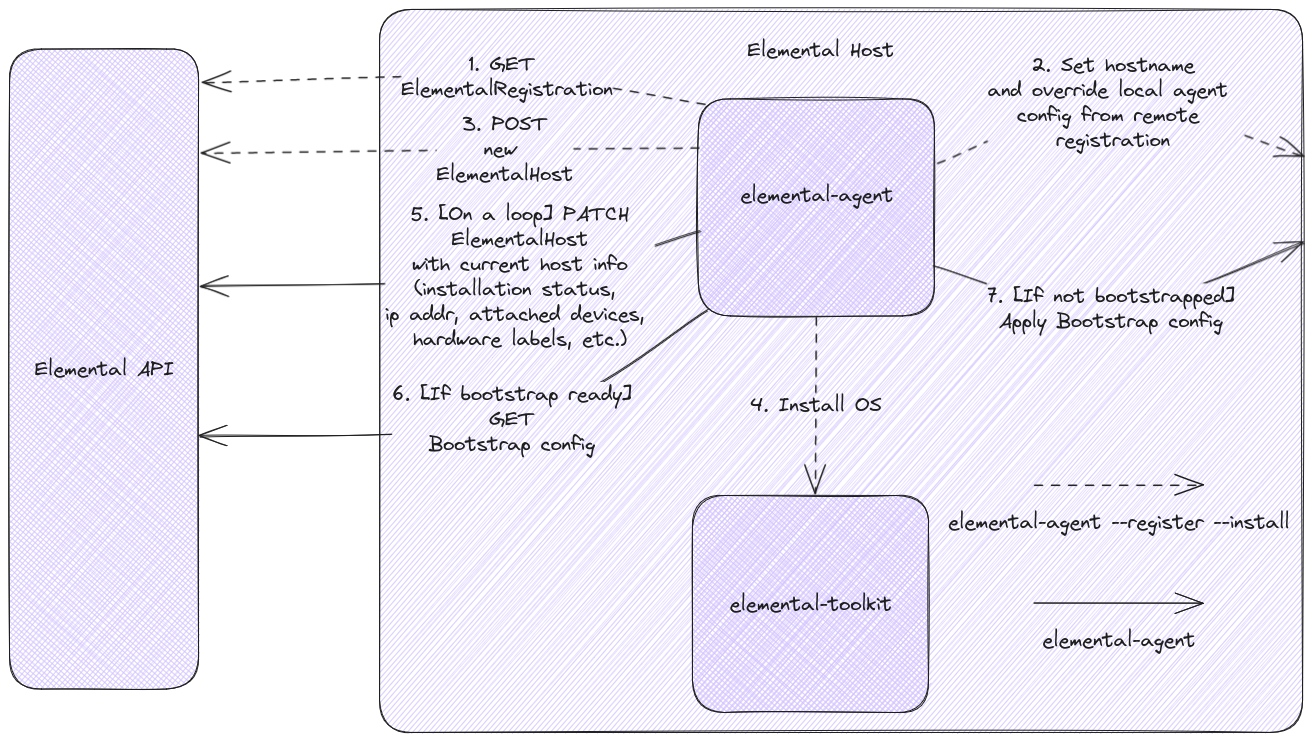
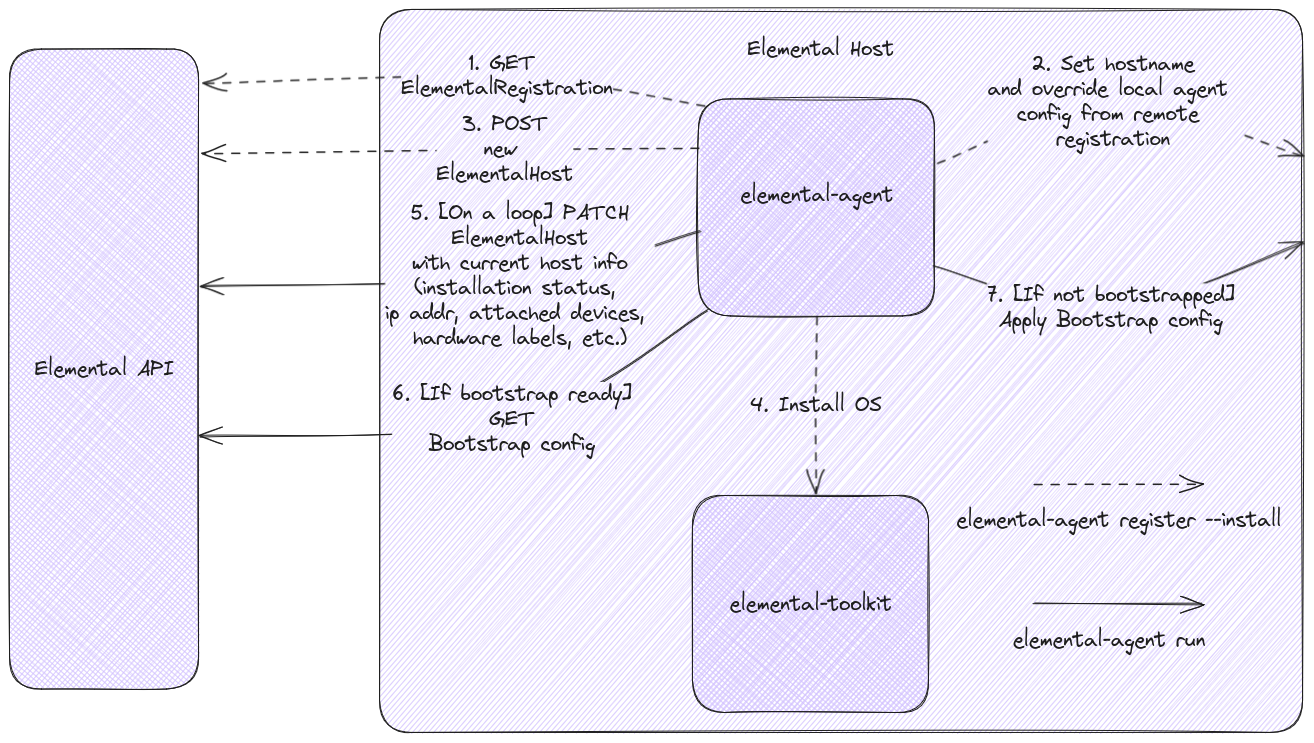
Actualize documentation

diff --git a/pkg/agent/osplugin/plugin.go b/pkg/agent/osplugin/plugin.go
@@ -34,7 +34,7 @@ type Plugin interface {
 	// InstallFile should install any file to the input path, given a content.
 	InstallFile(content []byte, path string, permission uint32, owner int, group int) error
 	// Install should install any needed components to the machine, given an input install config (in JSON format).
-	// This is called by the agent on '--install' argument.
+	// This is called by the agent on 'install' command.
 	Install(input []byte) error
 	// Bootstrap should apply the CAPI bootstrap config to the machine.
 	// The format can be either "cloud-init" or "ignition".
@@ -42,7 +42,7 @@ type Plugin interface {
 	// TriggerReset should prepare the machine for reset.
 	TriggerReset() error
 	// Reset should reset the machine to an installable state, given an input reset config (in JSON format).
-	// This is called by the agent on '--reset' argument.
+	// This is called by the agent on 'reset' command.
 	Reset(input []byte) error
 	// PowerOff should poweroff the machine.
 	PowerOff() error

diff --git a/internal/agent/phase/register.go b/internal/agent/phase/register.go
@@ -63,7 +63,7 @@ func (r *registrationHandler) FinalizeRegistration() error {
 
 	// We try to catch and recover errors here since this is not recoverable once the cli exits with an error.
 	//
-	// If this steps fail and `elemental-agent --register` is called again, it will try to register using a new identity,
+	// If this steps fail and `elemental-agent register` is called again, it will try to register using a new identity,
 	// since the system is not installed yet and the previously registered identity lived in-memory.
 	//
 	// Therefore we must prevent the entire registration process from failing on recoverable errors (in this case a network issue).

diff --git a/doc/HOST_PHASES.md b/doc/HOST_PHASES.md
@@ -22,18 +22,18 @@ If an `ElementalHost` with the same name and public key already exists, the `ele
 Normally the `Registering` phase is very short living and transitory.  
 Upon successful registration, the `elemental-agent` will automatically execute the `Finalizing Registration` phase.  
 
-This phase is ran using the `elemental-agent --register` argument.  
+This phase is ran using the `elemental-agent register` command.  
 
 ### Finalizing Registration
 
-The `Finalizing Registration` immediately follows the `Registration` phase when `elemental-agent --register` is used.  
+The `Finalizing Registration` immediately follows the `Registration` phase when `elemental-agent register` is used.  
 
 During this phase the `elemental-agent` will take the following steps:  
 
 1. Install the registered hostname. (OSPlugin dependent)
 
 1. Fetch the remote `ElementalRegistration` and use it to install a new agent config file. (OSPlugin dependent)  
-**Note:** During this phase the current agent config path is used to determine the install location. This is important if you are using a custom path (ex. `elemental-agent --config /my/custom/config.yaml`) and you will need to change it later. Migration of this file is going to be needed and depending on how the `OSPlugin` installs files (for ex. in an immutable system), the migration strategy may differ.  
+**Note:** During this phase the current agent config path is used to determine the install location. This is important if you are using a custom path (ex. `elemental-agent run --config /my/custom/config.yaml`) and you will need to change it later. Migration of this file is going to be needed and depending on how the `OSPlugin` installs files (for ex. in an immutable system), the migration strategy may differ.  
 
 1. Install the generated private key used for the host registration. (OSPlugin dependent)
 The private key is used by the `elemental-agent` for authentication and is going to be installed in the agent `workDir` (from the `ElementalRegistration` derived config) under the `private.key` filename.  
@@ -46,8 +46,8 @@ Finally it installs the system.
 Both steps are heavily `OSPlugin` dependent.  
 The `ElementalRegistration.spec.elemental.install` is a schemaless field that can be used to pass arbitrary data to the `OSPlugin`, when executing this phase.  
 
-This phase is ran using the `elemental-agent --install` argument.  
-Note that if `elemental-agent --register --install` is used, this phase will happen automatically after the registration has been finalized.  
+This phase is ran using the `elemental-agent install` command.  
+Note that if `elemental-agent register --install` is used instead, this phase will happen automatically after the registration has been finalized.  
 
 ### Bootstrapping
 
@@ -82,11 +82,11 @@ During this phase, the `elemental-agent` will inform the `OSPlugin` that reset h
 Implementation details are plugin dependent, this is the occasion for the plugin to stop services and do anything needed to prepare the system for a reset.  
 
 The `elemental-agent` will exit once reset has been triggered.  
-It is expected to run `elemental-agent --reset` after, to actually perform the reset of the host.  
+It is expected to run `elemental-agent reset` after, to actually perform the reset of the host.  
 
 ### Resetting
 
-The `Resetting` phase happens when `elemental-agent --reset` is ran.  
+The `Resetting` phase happens when `elemental-agent reset` is ran.  
 
 The `elemental-agent` will first delete the remote `ElementalHost`.  
 This will add a `deletionTimestamp` to the remote resource, however a finalizer will prevent deletion until reset is deemed successful.  
@@ -96,4 +96,4 @@ After deleting the remote `ElementalHost`, the `elemental-agent` will fetch the 
 If the `OSPlugin` resets the host successfully, the remote `ElementalHost` is updated one last time to highlight reset has been completed. This will allow the deletion of the `ElementalHost`.  
 
 It is expected to re-start the lifecycle of the host at this point if desired.  
-This means running `elemental-agent --register --install` to perform a new registration and a fresh installation of the system.  
+This means running `elemental-agent register --install` to perform a new registration and a fresh installation of the system.  

diff --git a/doc/PLUGIN_ELEMENTAL.md b/doc/PLUGIN_ELEMENTAL.md
@@ -23,7 +23,7 @@ Status:
 
 ### 1. Finalizing Registration
 
-When running `elemental-agent --register`, upon successful registration, the plugin will be invoked by the agent to perform the following actions:
+When running `elemental-agent register`, upon successful registration, the plugin will be invoked by the agent to perform the following actions:
 
 - Set the chosen hostname on the host.  
 - Install the agent config in the work directory: `/oem/elemental/agent/config.yaml`
@@ -33,12 +33,12 @@ For each action, the elemental plugin will create an `elemental-toolkit` cloud-i
 
 ### 2. Installing
 
-When running `elemental-agent --install`, assuming registration was performed successfully, the plugin will be invoked to:
+When running `elemental-agent install`, assuming registration was performed successfully, the plugin will be invoked to:
 
 - Apply the `cloudConfig` from the remote `ElementalRegistration`.
 - Invoke `elemental install` using the remote `ElementalRegistration` `spec.config.elemental.install` config.
 
-In a default elemental installation, the `--register` and `--install` phases are executed together by the `elemental-agent-install` service from the `Elemental recovery` partition.  
+In a default elemental installation, the `register` and `install` phases are executed together by the `elemental-agent-install` service from the `Elemental recovery` partition.  
 To debug installation issues you can run: `journalctl -xeu elemental-agent-install` on the host.  
 
 Note that when installing, the plugin will only invoke `elemental install` from a live system.  
@@ -79,8 +79,8 @@ When the `elemental-agent` receives a reset trigger, for example because the CAP
             - if: '[ -f /run/elemental/recovery_mode ]'
             name: Runs elemental reset and re-register the system
             commands:
-                - elemental-agent --debug --reset --config /oem/elemental/agent/config.yaml
-                - elemental-agent --debug --register --install --config /oem/elemental/agent/config.yaml
+                - elemental-agent reset  --debug --config /oem/elemental/agent/config.yaml
+                - elemental-agent register --debug  --install --config /oem/elemental/agent/config.yaml
                 - reboot -f
     ```
 
@@ -90,10 +90,10 @@ When the `elemental-agent` receives a reset trigger, for example because the CAP
 ### 5. Resetting
 
 In a typical Elemental installation, the reset phase is executed from the above mentioned `Elemental Reset` plan.  
-When running `elemental-agent --reset`, the plugin will make a copy of the agent config in `/tmp/elemental-agent-config.yaml` and then invoke `elemental reset` using the remote `ElementalRegistration` `spec.config.elemental.reset` config.  
+When running `elemental-agent reset`, the plugin will make a copy of the agent config in `/tmp/elemental-agent-config.yaml` and then invoke `elemental reset` using the remote `ElementalRegistration` `spec.config.elemental.reset` config.  
 If no errors occur, the previously copied agent config is moved back to `/oem/elemental/agent/config.yaml`.  
 
 Similarly to the bootstrap phase, if any issues arise, you can manually execute and debug the reset plan by running: `elemental --debug run-stage network`  
 
-Upon successful reset, the plan should run `elemental-agent --register --install` to register a new `ElementalHost` and mark it as installed.  
+Upon successful reset, the plan should run `elemental-agent register --install` to register a new `ElementalHost` and mark it as installed.  
 Finally, the host will reboot to the active partition and be ready for CAPI provisioning.  

diff --git a/doc/PLUGIN_DUMMY.md b/doc/PLUGIN_DUMMY.md
@@ -8,7 +8,7 @@ The `elemental-agent` goes through several [phases](../../doc/HOST_PHASES.md), n
 
 ### 1. Finalizing Registration
 
-When running `elemental-agent --register`, upon successful registration, the plugin will be invoked by the agent to perform the following actions:
+When running `elemental-agent register`, upon successful registration, the plugin will be invoked by the agent to perform the following actions:
 
 - Set the chosen hostname on the host. This step relies on: `hostnamectl set-hostname`
 - Install the agent config in the work directory: `/var/lib/elemental/agent/config.yaml`
@@ -16,7 +16,7 @@ When running `elemental-agent --register`, upon successful registration, the plu
 
 ### 2. Installing
 
-When running `elemental-agent --install`, this plugin will dump the remote `ElementalRegistration` `spec.config.elemental.install` config into an `install.yaml` file in the agent work directory.  
+When running `elemental-agent install`, this plugin will dump the remote `ElementalRegistration` `spec.config.elemental.install` config into an `install.yaml` file in the agent work directory.  
 No further action is taken by the plugin, once the file is created the system will be considered **installed** and ready to be bootstrapped.  
 An administrator can implement logic around this expected file, for example leveraging [Systemd's Path Units](https://www.freedesktop.org/software/systemd/man/latest/systemd.path.html).  
 
@@ -35,12 +35,12 @@ Upon reboot, the bootstrap config is expected to create the `/run/cluster-api/bo
 When the `elemental-agent` receives a reset trigger, the plugin will create a `needs.reset` file in the agent work directory.  
 No further action is taken by the plugin.
 
-When the `needs.reset` file is created, some logic should take place to prepare the machine for reset, delete the `needs.reset` file and start the agent with the `--reset` argument to mark the host as reset.  
+When the `needs.reset` file is created, some logic should take place to prepare the machine for reset, delete the `needs.reset` file and start the agent with the `reset` command to mark the host as reset.  
 In this stage some host services may also be stopped or uninstalled, for example `k3s`.  
 
 ### 5. Resetting
 
-Similarly to the installation, a `reset.yaml` in the agent work directory will be created when the agent is called with the `--reset` argument.  
+Similarly to the installation, a `reset.yaml` in the agent work directory will be created when the agent is called with the `reset` command.  
 This is a simple dump of the `ElementalRegistration` `spec.config.elemental.reset` configuration.
 
 The reset will fail if the `needs.reset` file exists. This highlight that the host was not prepared for reset first.  

diff --git a/doc/AUTH.md b/doc/AUTH.md
@@ -35,7 +35,7 @@ eyJhbGciOiJFZERTQSIsInR5cCI6IkpXVCJ9.eyJpc3MiOiJFbGVtZW50YWxSZWdpc3RyYXRpb25SZWN
 The token is in JWT format. You can inspect it using the web app at [jwt.io](https://jwt.io).  
 By default registration tokens do not and should not expire.  
 The registration tokens are normally shared with hosts during the provisioning phase and are used by the `elemental-agent` to register a new ElementalHost.  
-Note that during the registration phase (`elemental-agent --register`), the `elemental-agent` will exchange its registration token for a fresh one, when fetching the remote ElementalRegistration to update (and override) the agent config file.  
+Note that during the registration phase (`elemental-agent register`), the `elemental-agent` will exchange its registration token for a fresh one, when fetching the remote ElementalRegistration to update (and override) the agent config file.  
 For this reason issuing tokens with an expiration date will eventually impact the ability of the hosts to reset and re-register.  
 
 You can generate a valid `elemental-agent` config file from any registration, using the conveniency `print_agent_config.sh` script from this repo (depends on `kubectl` and `yq`):
@@ -164,7 +164,7 @@ This is also documented in in the [OpenAPI specs](../elemental-openapi.yaml).
 Similarly to the registration tokens, host tokens are also in JWT format.  
 The `elemental-agent` will always generate a new private signing key in a `private.key` file within its work directory.  
 If no file exists, a new one is created, otherwise it's simply loaded.  
-This gives the possibility of pre-creating a signing key before running `elemental-agent --register`.  
+This gives the possibility of pre-creating a signing key before running `elemental-agent register`.  
 The key must be an EdDSA key in PEM format.  
 
 When registering a new `ElementalHost`, the agent will pass the public key that should be used to validate its signature and also a signed JWT so that the controller can validate the request.  

diff --git a/doc/ELEMENTAL_AGENT.md b/doc/ELEMENTAL_AGENT.md
@@ -96,11 +96,11 @@ agent:
   hostname:
     useExisting: false
     prefix: ""
-  # Post Install behavior (when running --install)
+  # Post Install behavior (when running install)
   postInstall:
     powerOff: false
     reboot: false
-  # Post Reset behavior (when running --reset)
+  # Post Reset behavior (when running reset)
   postReset:
     powerOff: false
     reboot: false
